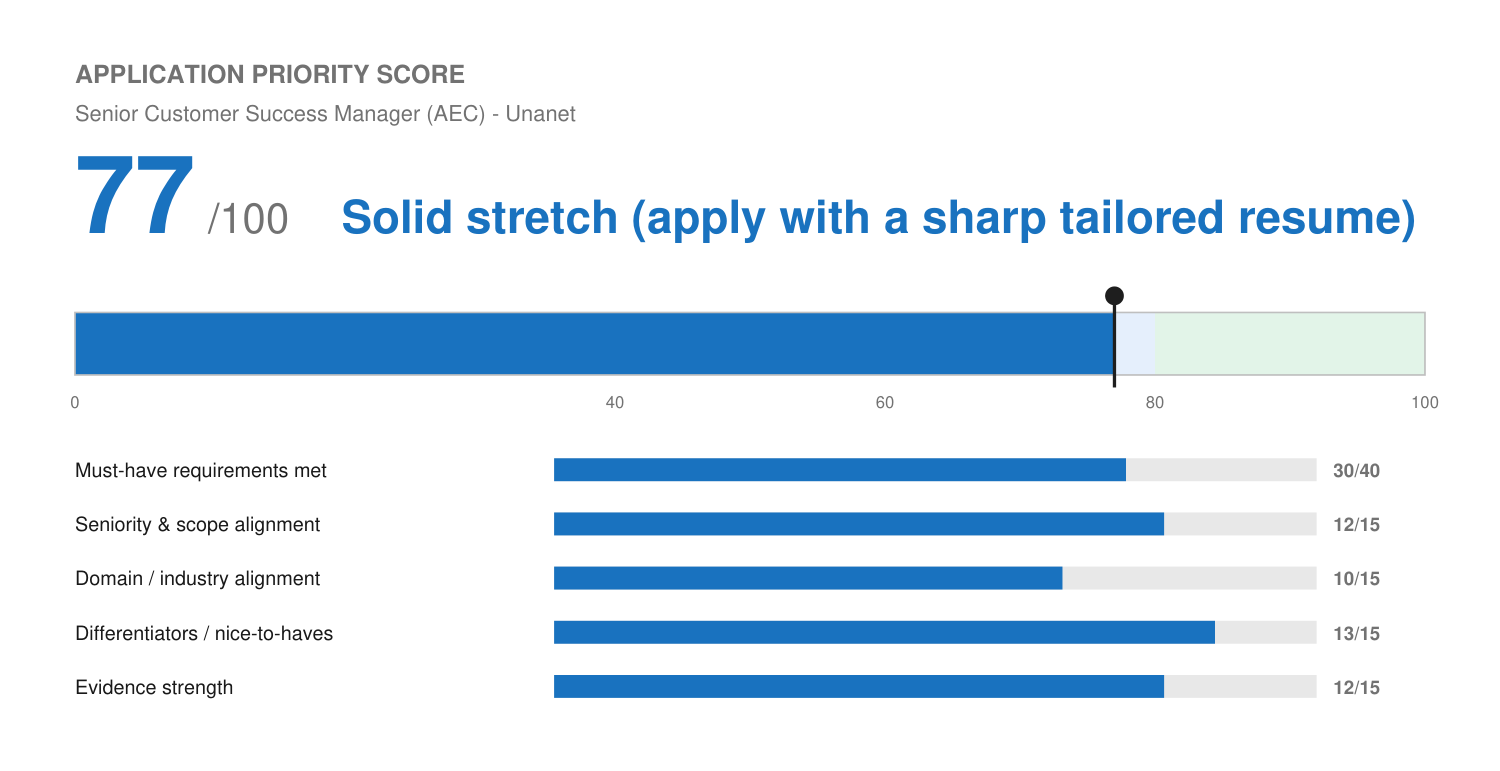
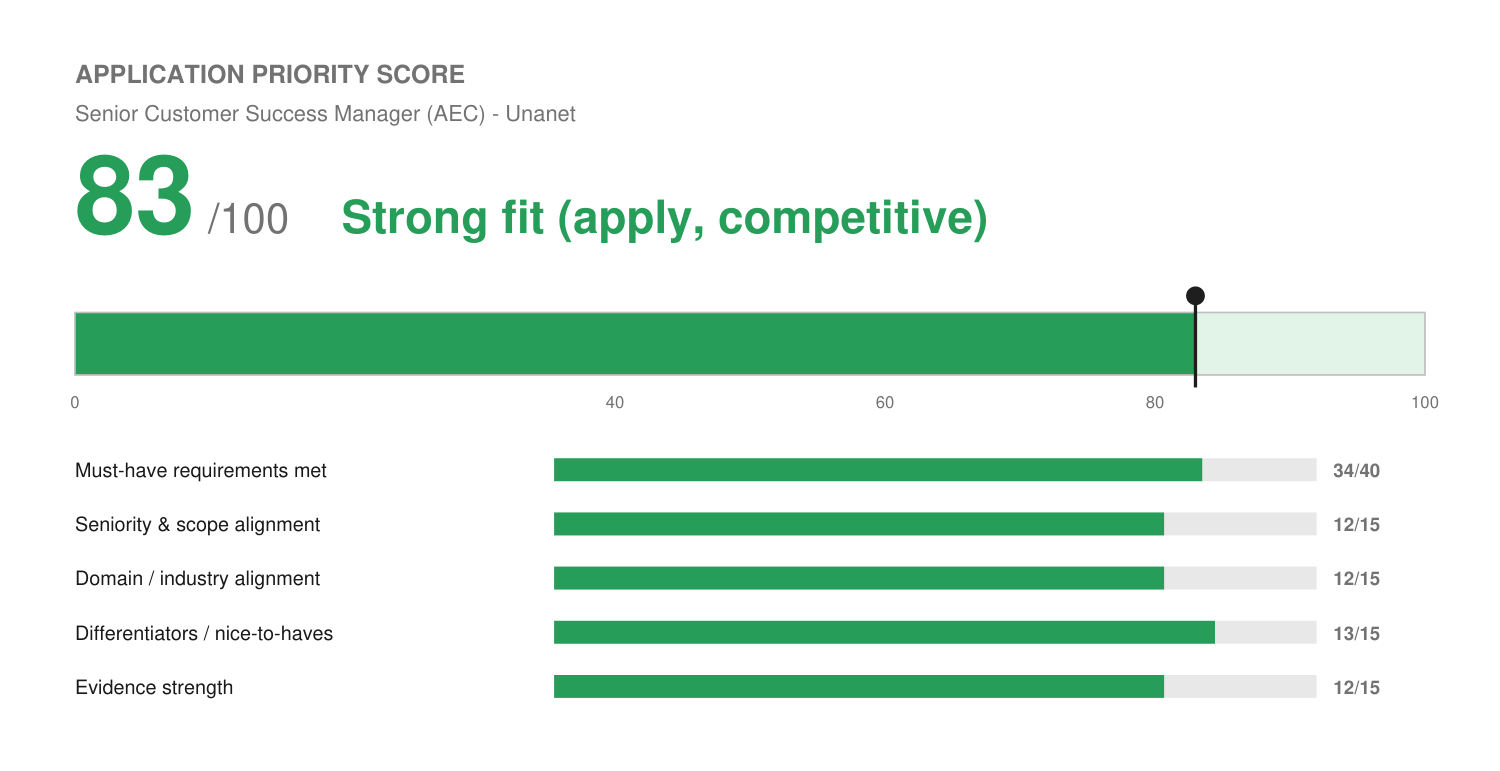
Unanet Senior CSM (AEC): score 83; Accelo A/E firm customers confirmed, Procore removed from profile
Claude-Session: https://claude.ai/code/session_018DEej5NGjq1omj9BTtvEiy

diff --git a/profile/master-profile.md b/profile/master-profile.md
@@ -634,6 +634,10 @@ operator talking, not like a candidate performing.
 > conventions for Accelo. Claim as "supported client events and industry conventions";
 > don't claim he planned or ran them.
 >
+> **AEC customers and Procore (Josh, Oct 6 2026, Unanet):** Accelo's customer base included
+> architecture and engineering firms that Josh sold to and scoped. Procore: no real hands-on
+> use; removed from the tools list, do not claim.
+>
 > **Invoicing/billing features (confirmed by Josh, Oct 2026):** demoed and/or set up
 > Accelo's invoicing and billing modules for clients. Closest real evidence for AP/billing
 > postings, scoped honestly: a PSA tool's billing side for professional-services firms, not
@@ -646,7 +650,7 @@ operator talking, not like a candidate performing.
 - Ranked **top three in sales** on a team that scaled from **8 to 15 reps**, holding that rank across all but the final few months of a **27-month tenure** (Apr 2018 - Jul 2020), while **quota roughly doubled** over the period.
 - Closed deals of **$20K and larger** later in tenure, mixed with a base of smaller wins.
 - Built sequenced implementation plans for incoming clients, ranking which systems to change and in what order, and handed them to the implementation team to execute against.
-- Sold and scoped complex CRM and project-management software to agencies and professional-services firms, with deep fluency in sales enablement, contact management, and pipeline automation.
+- Sold and scoped complex CRM and project-management software to agencies and professional-services firms (including architecture and engineering firms, confirmed by Josh Oct 2026), with deep fluency in sales enablement, contact management, and pipeline automation.
 - Guided client onboarding, workflow design, and API integrations, building relationships with C-Suite executives as a trusted advisor on operational system design.
 - Advised clients on CRM adoption, building scalable operational systems aligned to their growth stage and team structure.
 - Guided onboarding alongside implementation teams, troubleshooting workflow design and resolving technical challenges during setup.
@@ -727,7 +731,7 @@ operator talking, not like a candidate performing.
 | Sales & Account Management | Full-cycle Sales, Pipeline Management, Pipeline Stage Tracking & Forecast Hygiene, C-Suite Relationship Building, Strategic Advisory, Account Expansion |
 | Operations & Systems | Process Mapping, SOP Development, Workflow Decomposition, Project Management, Cross-functional Coordination |
 | Content & Writing | Thought Leadership, Direct Response Copy, Technical Translation, Brand Voice, Editorial Management |
-| Tools & Platforms | GoHighLevel, HubSpot, Salesforce, Notion, Slack, Asana, Monday.com, Jira, Zendesk, ClickUp, Screaming Frog, Google Apps, Procore |
+| Tools & Platforms | GoHighLevel, HubSpot, Salesforce, Notion, Slack, Asana, Monday.com, Jira, Zendesk, ClickUp, Screaming Frog, Google Apps |
 
 > **Excel, Power BI, SQL, Python/JS (confirmed by Josh, Sep 2026, updated Sep 2026):**
 > Excel is a genuine, experienced-level skill, not just baseline literacy. Power BI is

diff --git a/applications/unanet-senior-csm-aec/match-report.md b/applications/unanet-senior-csm-aec/match-report.md
@@ -15,7 +15,7 @@
 | :--- | :--- | :--- |
 | Remote US / work authorization | Application-form, met | U.S. citizen |
 | Bachelor's degree | Resume-evidenced, met | B.A., Colorado State |
-| AEC industry customer experience | Resume-evidenced, **partial** | Trades (electrical/plumbing/HVAC) via Solenzo; Accelo PSA for professional-services firms; Procore in tools. No architecture/engineering firm book |
+| AEC industry customer experience | Resume-evidenced, adjacent-strong | Accelo sold/scoped PSA to architecture and engineering firms (confirmed Oct 6); trades via Solenzo. No dedicated AEC CS book |
 | Compensation | Application-form | Lower-middle default: **$98,000** |
 
 No knockout. No cap. No video answer.
@@ -24,16 +24,16 @@ No knockout. No cap. No video answer.
 
 ## Application Priority Score
 
-⚪ **77 / 100 — Solid stretch (apply with a sharp tailored resume)**
-`[███████████████░░░░░]  77%`
+⚪ **83 / 100 — Strong fit (apply, competitive)**
+`[█████████████████░░░]  83%`
 
 *Internal decision aid, not a prediction of Unanet's screening outcome.* See `fit.png`.
 
 | Dimension | Score | Max |
 | :--- | :---: | :---: |
-| Must-have requirements met | 30 | 40 |
+| Must-have requirements met | 34 | 40 |
 | Seniority & scope alignment | 12 | 15 |
-| Domain / industry alignment | 10 | 15 |
+| Domain / industry alignment | 12 | 15 |
 | Differentiators / nice-to-haves | 13 | 15 |
 | Evidence strength | 12 | 15 |
 
@@ -47,7 +47,7 @@ Accelo is the hidden asset here: Josh sold and scoped a PSA (CRM + project manag
 | :--- | :--- | :--- |
 | 5+ yrs CS/AM/consultative B2B SaaS | Strong | 15+ years |
 | Adoption, retention, renewals, expansion | Adjacent-strong | ~94% retention; Solenzo expansion; renewals undocumented |
-| AEC industry customers | Partial | Trades via Solenzo; PSA for professional services |
+| AEC industry customers | Adjacent-strong | Accelo A/E firm customers; trades via Solenzo |
 | C-level relationships | Strong | Accelo C-suite advisory |
 | Consultative, negotiation, executive presentation | Strong | Accelo deals $20K+; QBRs; presented to 50+ |
 | Strategic account plans, health data | Strong | Birdeye utilization; Solenzo success planning |
@@ -60,13 +60,13 @@ Accelo is the hidden asset here: Josh sold and scoped a PSA (CRM + project manag
 | Digital-first/scaled CS (preferred) | Adjacent | Birdeye automated training sequences; Solenzo lifecycle automation |
 
 ## Gaps
-- Architecture/engineering firm customer book.
+- Dedicated AEC customer-success book (sales-side A/E exposure only).
 - Documented renewal ownership, GRR/NRR.
 - Gainsight/ChurnZero.
 
 ## Candidate Confirmation Needed
-- Did Accelo customers include architecture or engineering firms?
-- Where did Josh use Procore, and how deeply?
+- Resolved Oct 6, 2026: Accelo customers included architecture and engineering firms (added to profile, resume, cover letter). Procore: no real use, removed everywhere.
+- Open: account expansion story (application question).
 
 ## Output Files
 - `Unanet-SeniorCSM-AEC-Resume.pdf` / `.docx`
